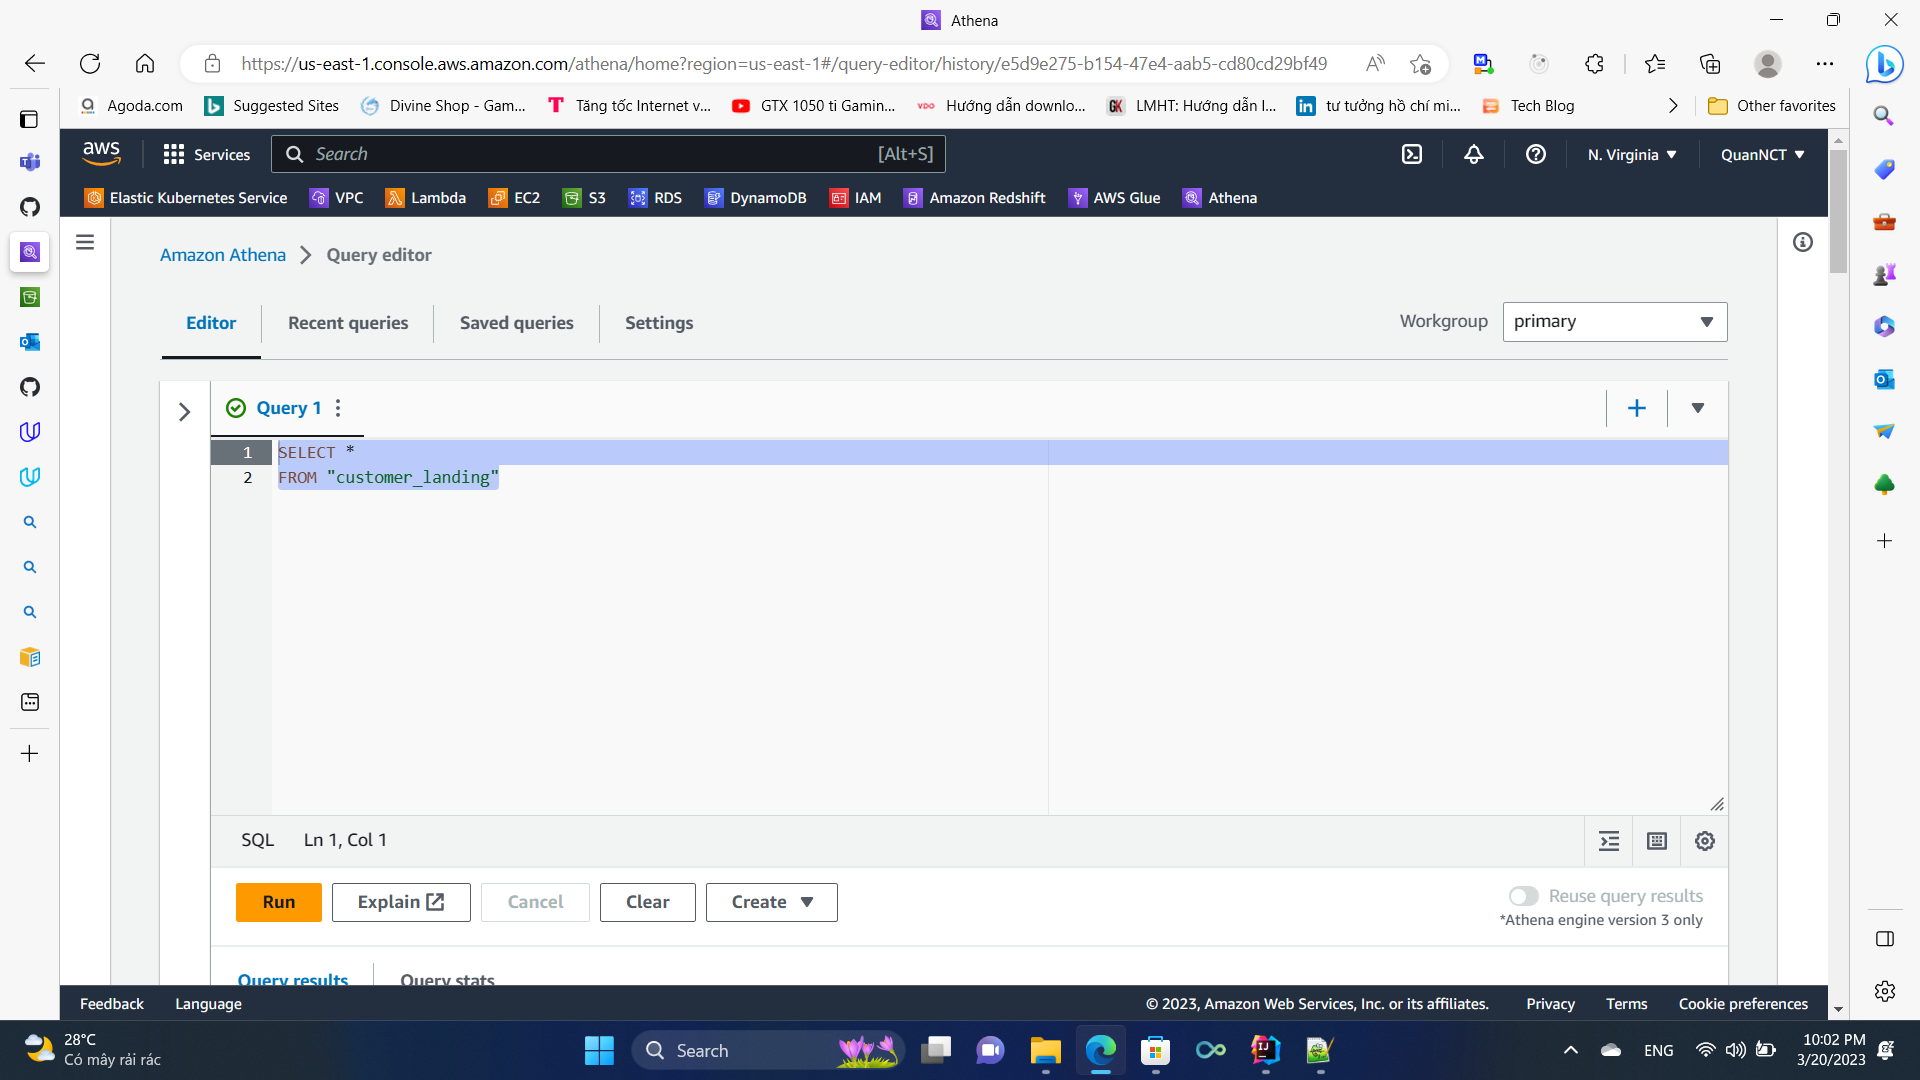
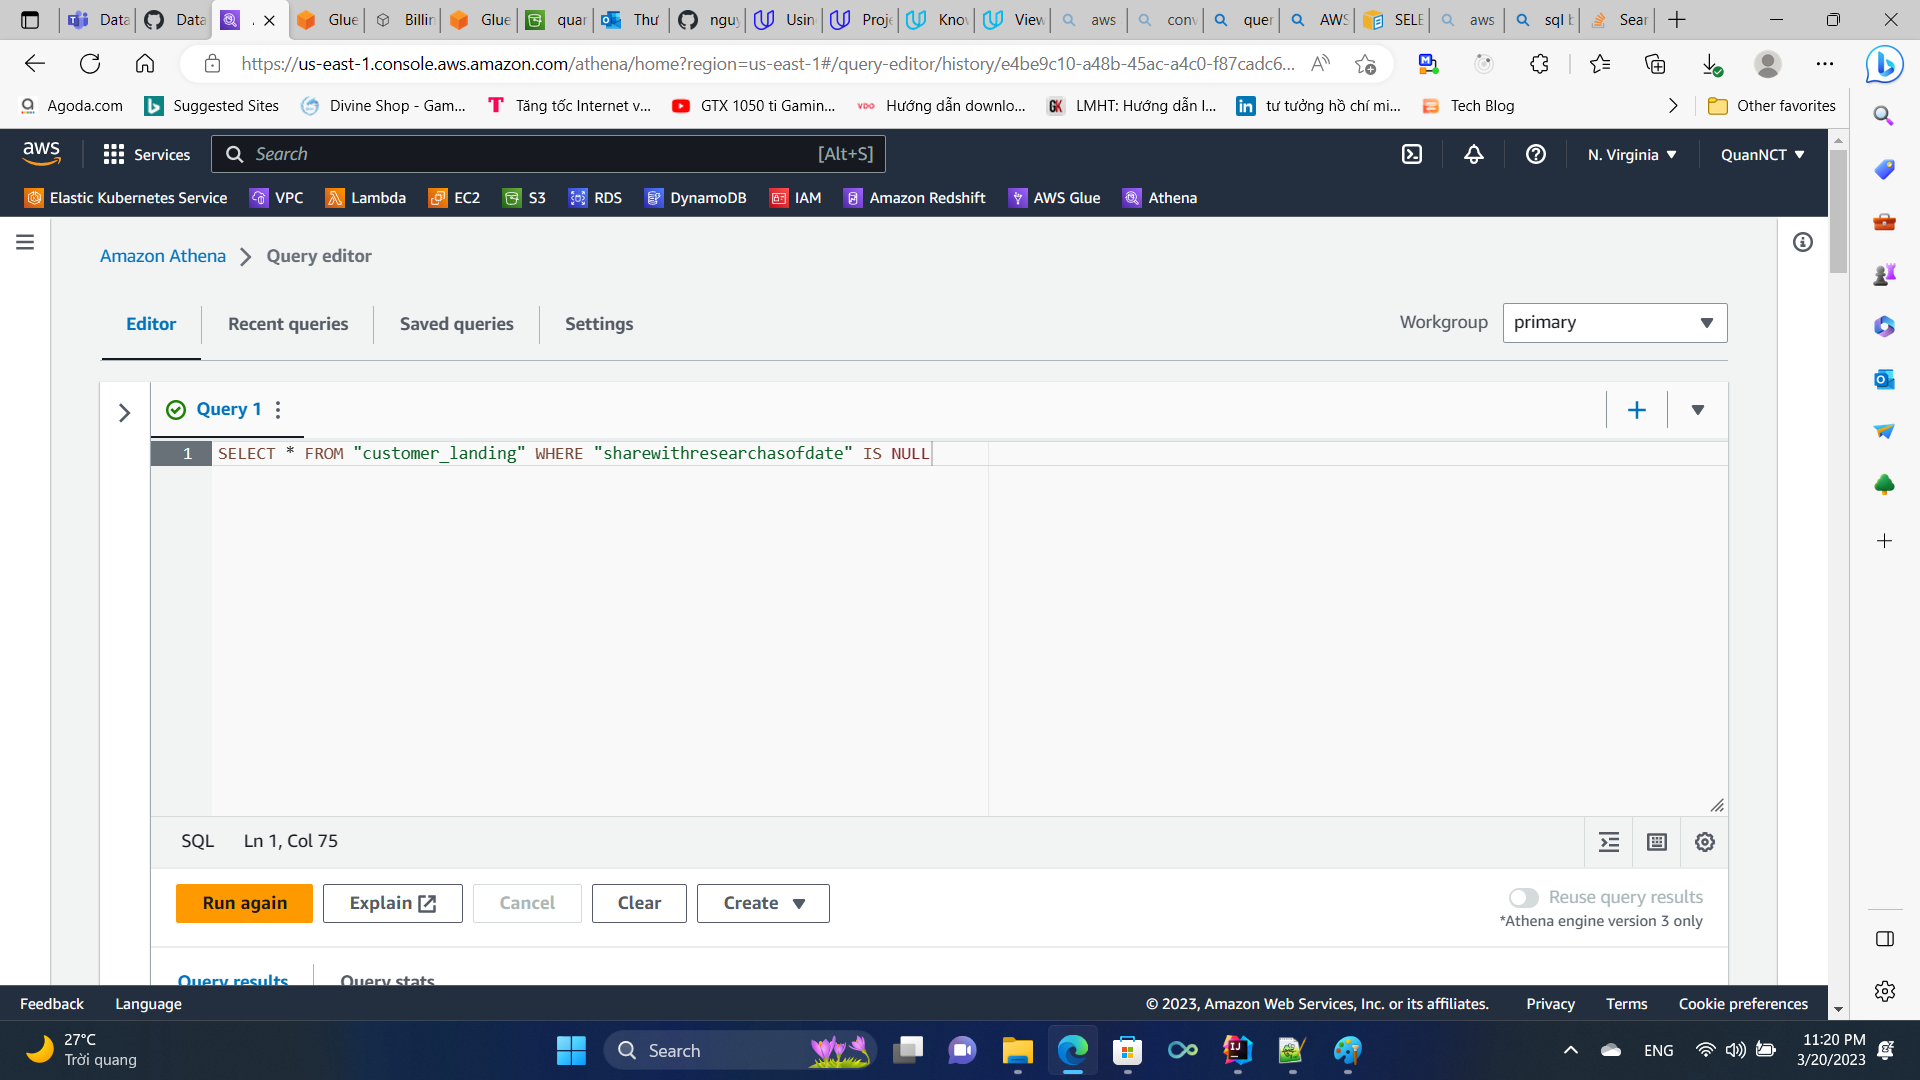
Add tables of trusted zones to customer_trusted Glue Data Catalogue

diff --git a/src/customer_landing_to_trusted.py b/src/customer_landing_to_trusted.py
@@ -1,0 +1,43 @@
+import sys
+from awsglue.transforms import *
+from awsglue.utils import getResolvedOptions
+from pyspark.context import SparkContext
+from awsglue.context import GlueContext
+from awsglue.job import Job
+import re
+
+args = getResolvedOptions(sys.argv, ["JOB_NAME"])
+sc = SparkContext()
+glueContext = GlueContext(sc)
+spark = glueContext.spark_session
+job = Job(glueContext)
+job.init(args["JOB_NAME"], args)
+
+# Script generated for node Customer Landing Zone
+CustomerLandingZone_node1 = glueContext.create_dynamic_frame.from_options(
+    format_options={"multiline": False},
+    connection_type="s3",
+    format="json",
+    connection_options={
+        "paths": ["s3://quannguyenchauthao-stedi-lakehouse/customer/landing/"],
+        "recurse": True,
+    },
+    transformation_ctx="CustomerLandingZone_node1",
+)
+
+# Script generated for node ApplyFilterMapping
+ApplyFilterMapping_node2 = Filter.apply(
+    frame=CustomerLandingZone_node1,
+    f=lambda row: (not (row["shareWithResearchAsOfDate"] == 0)),
+    transformation_ctx="ApplyFilterMapping_node2",
+)
+
+# Script generated for node Customer Trusted Zone
+CustomerTrustedZone_node3 = glueContext.write_dynamic_frame.from_catalog(
+    frame=ApplyFilterMapping_node2,
+    database="stedi-lakehouse",
+    table_name="customer_trusted",
+    transformation_ctx="CustomerTrustedZone_node3",
+)
+
+job.commit()
